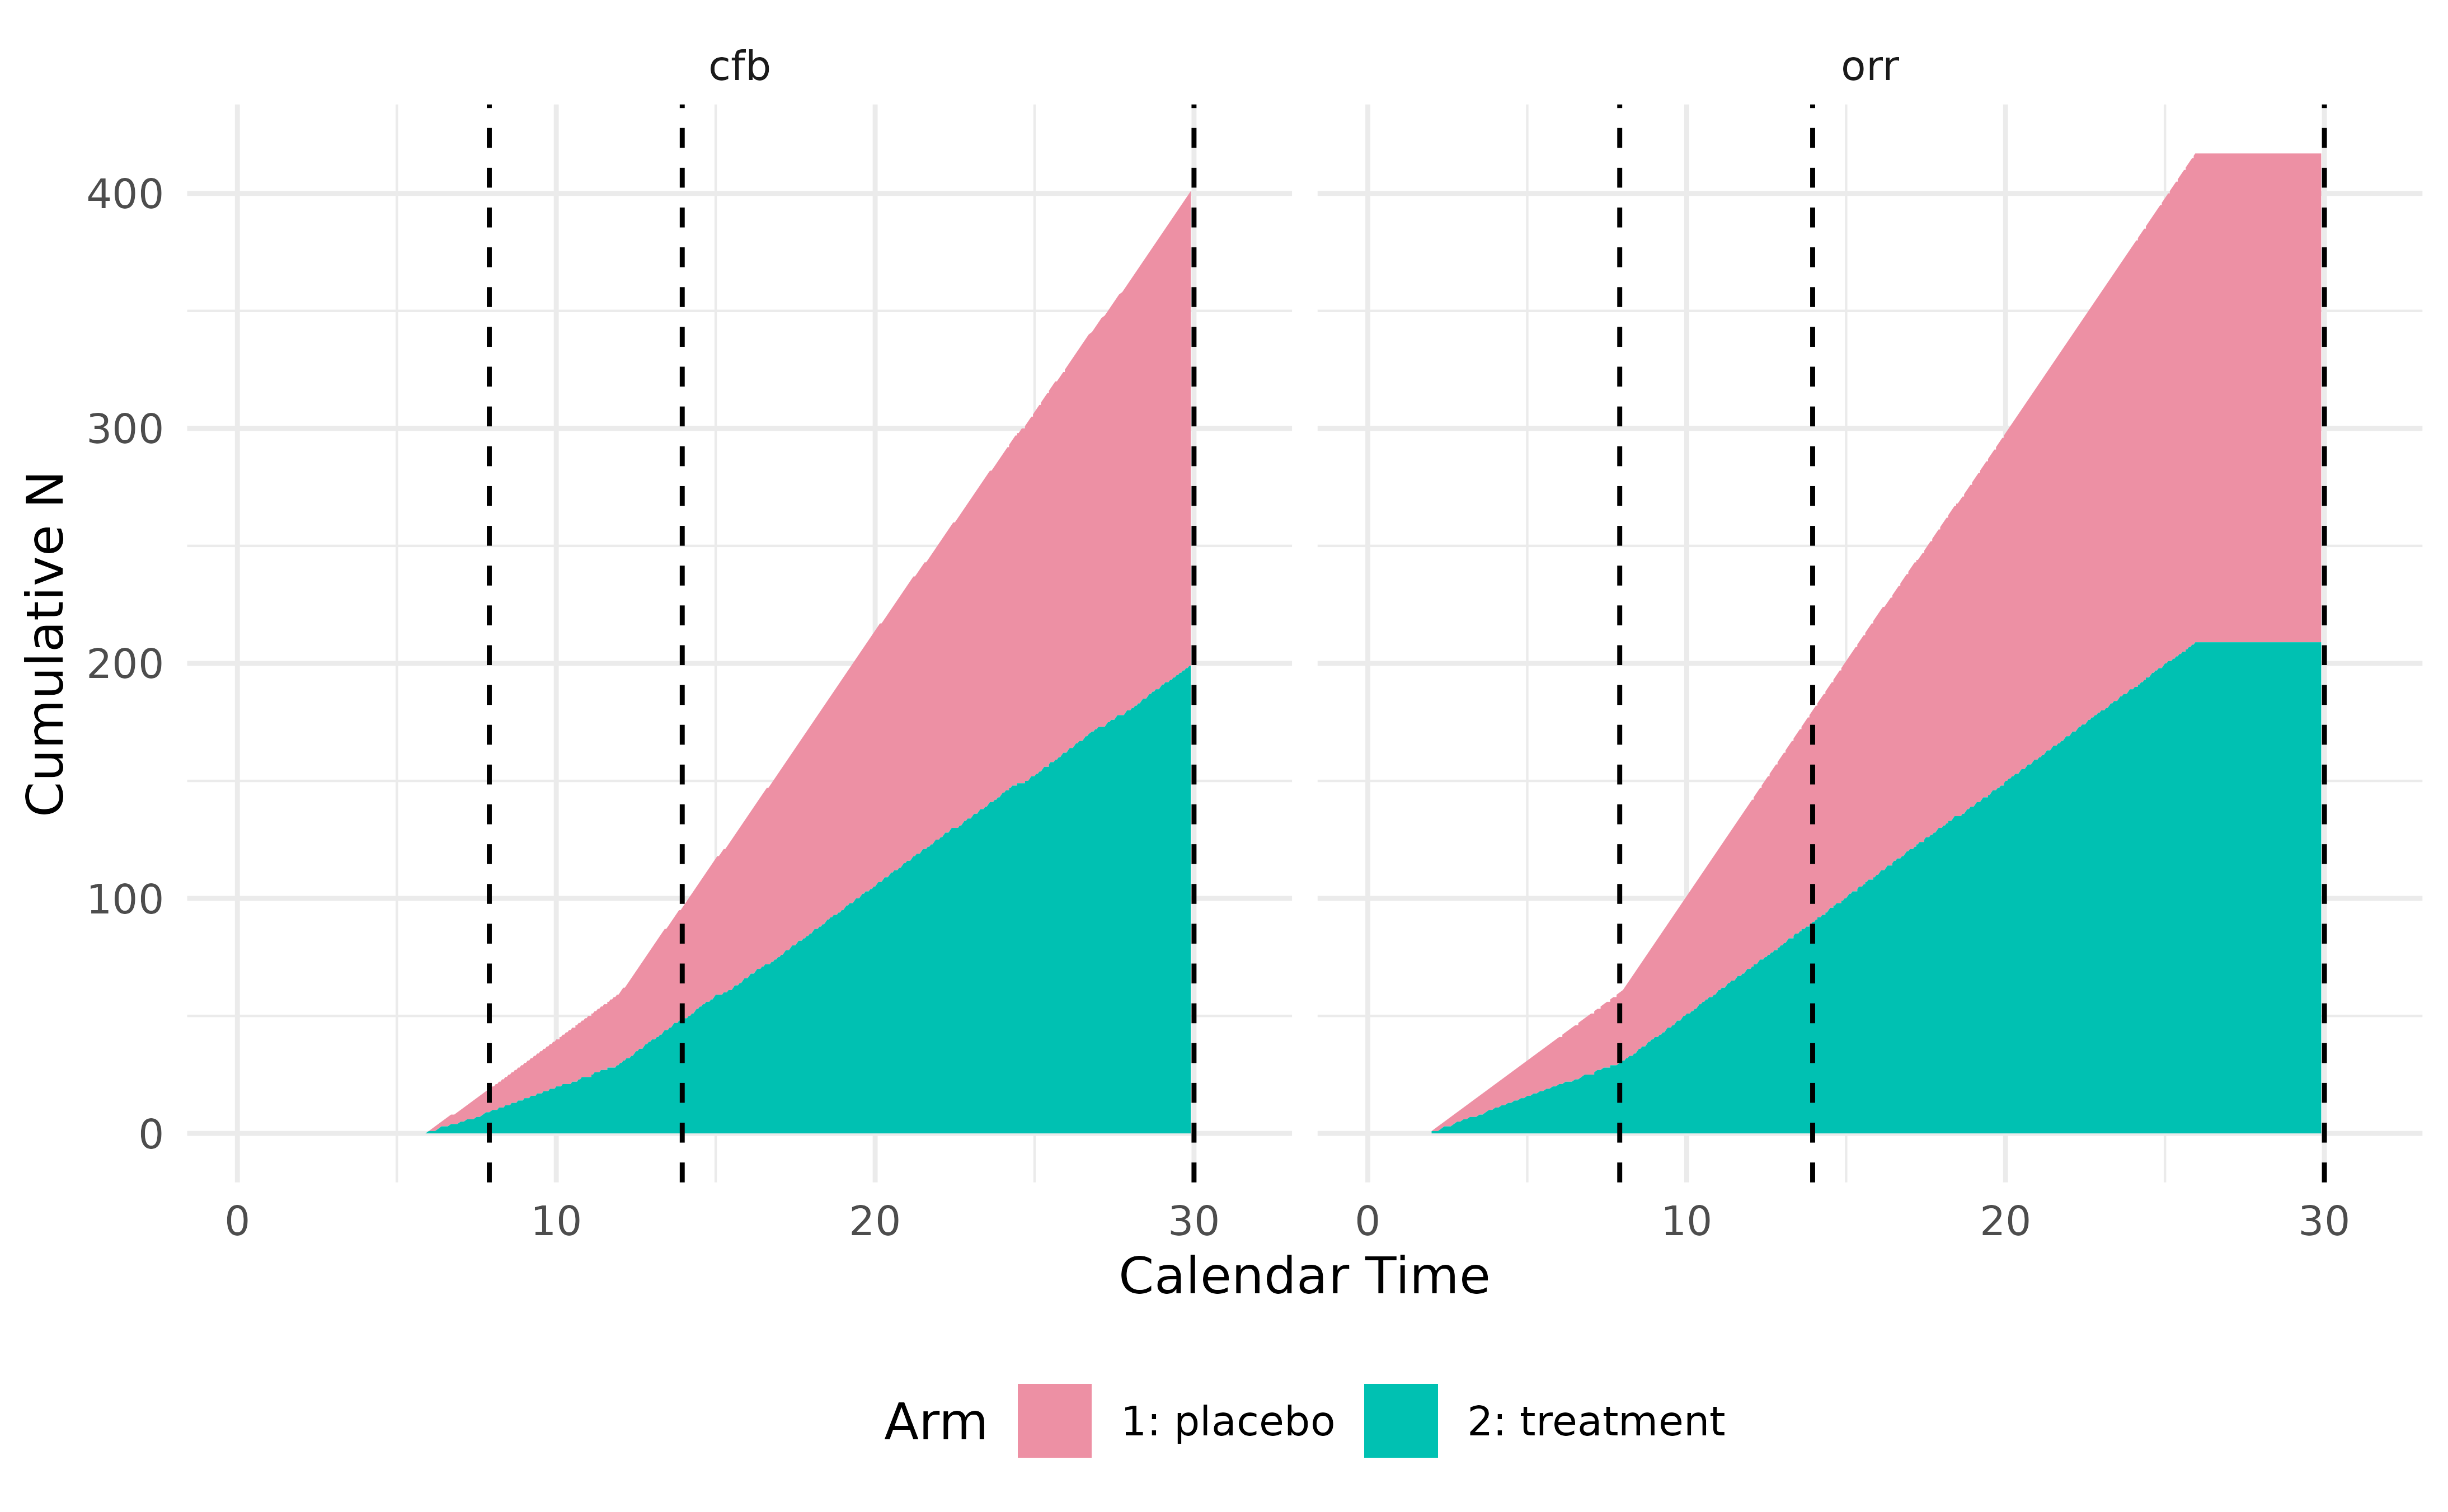
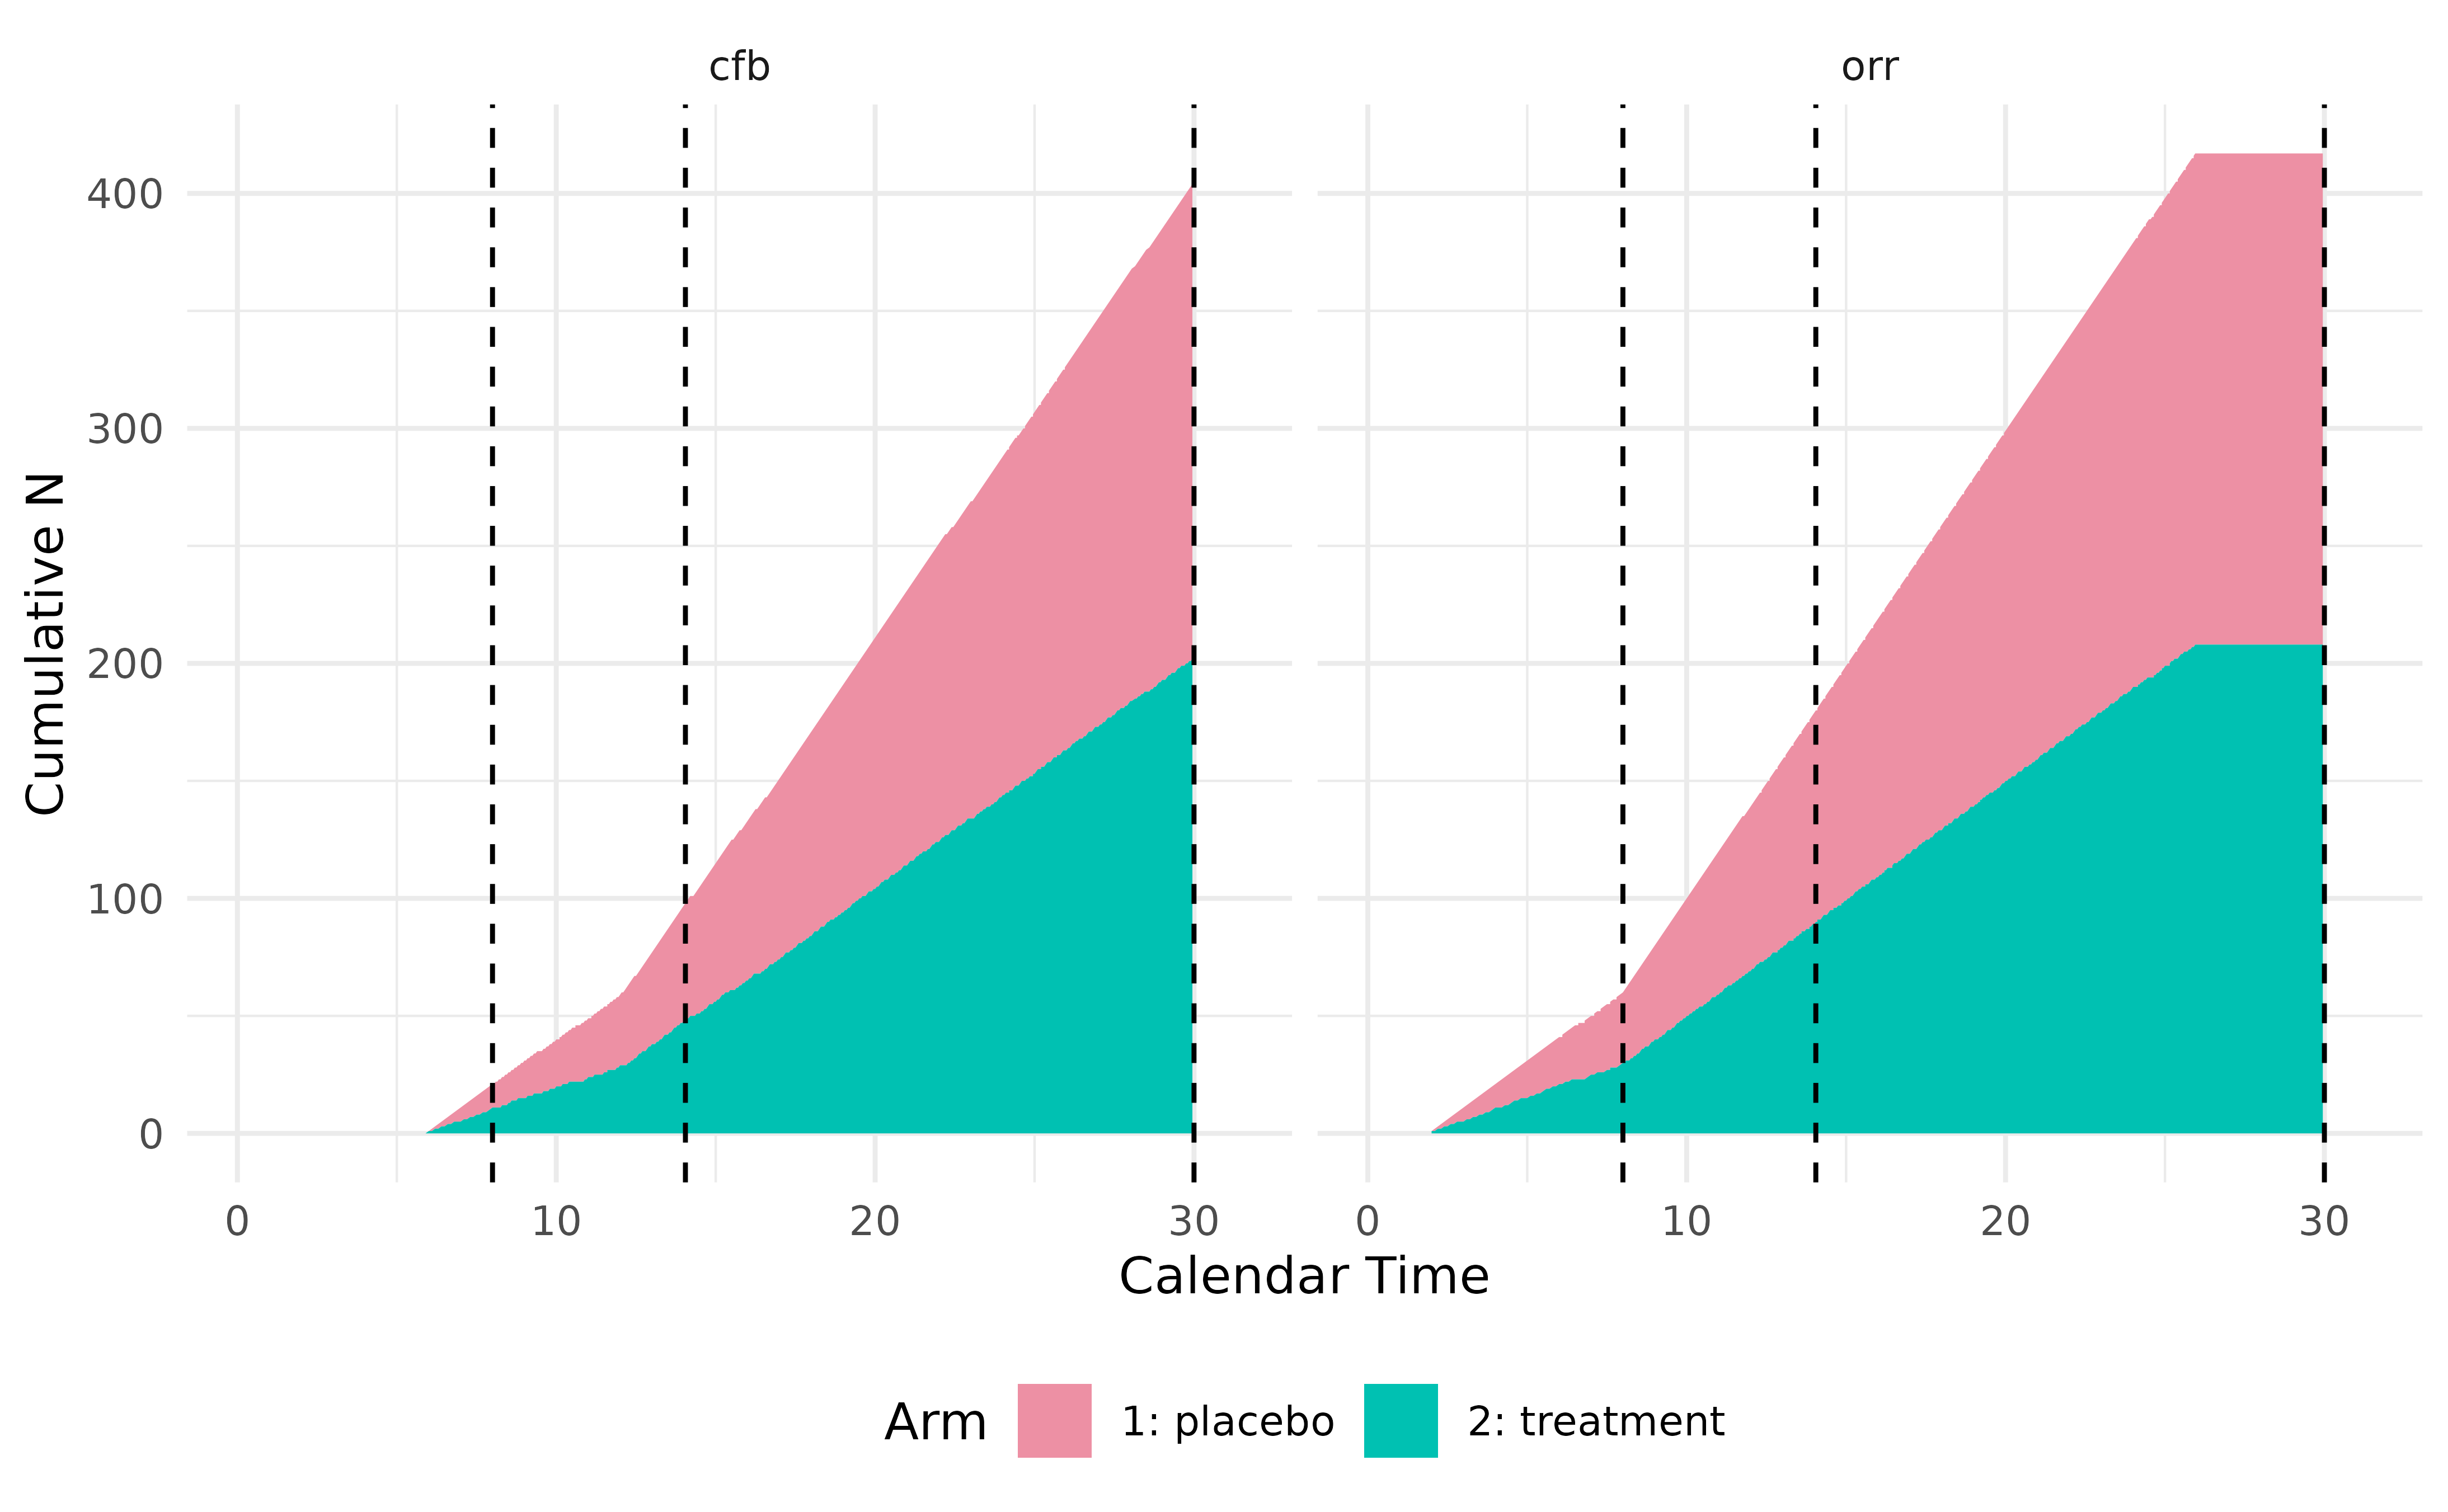
Deploying to gh-pages from @ zhangh12/TrialSimulator@8e10de6acb2aae3a9433bf3b0c79e435f6f9555b 🚀

Changed region(s): [[0.2487, 0.6837, 0.2798, 0.7148], [0.1865, 0.7148, 0.2176, 0.7458]]

diff --git a/articles/defineNonTimeToEventEndpoints.html b/articles/defineNonTimeToEventEndpoints.html
@@ -25,7 +25,7 @@
 
     <a class="navbar-brand me-2" href="../index.html">TrialSimulator</a>
 
-    <small class="nav-text text-muted me-auto" data-bs-toggle="tooltip" data-bs-placement="bottom" title="">1.19.1</small>
+    <small class="nav-text text-muted me-auto" data-bs-toggle="tooltip" data-bs-placement="bottom" title="">1.20.0</small>
 
 
     <button class="navbar-toggler" type="button" data-bs-toggle="collapse" data-bs-target="#navbar" aria-controls="navbar" aria-expanded="false" aria-label="Toggle navigation">
@@ -158,6 +158,32 @@ available after 2 months, assuming a binomial distribution
 <span><span class="co">## define the treatment arm</span></span>
 <span><span class="va">trt</span> <span class="op">&lt;-</span> <span class="fu"><a href="../reference/arm.html">arm</a></span><span class="op">(</span>name <span class="op">=</span> <span class="st">'treatment'</span><span class="op">)</span></span>
 <span><span class="va">trt</span><span class="op">$</span><span class="fu">add_endpoints</span><span class="op">(</span><span class="va">tumor_cfb_trt</span>, <span class="va">orr_trt</span><span class="op">)</span></span></code></pre></div>
+<div class="section level3">
+<h3 id="baseline-endpoints">Baseline endpoints<a class="anchor" aria-label="anchor" href="#baseline-endpoints"></a>
+</h3>
+<p>Some variables are observed at randomization rather than after a
+delay, for example a baseline covariate, biomarker, or subgroup
+indicator. Such a variable is a non-TTE endpoint with a readout of
+<code>0</code>. Instead of writing
+<code>type = 'non-tte', readout = c(biomarker = 0)</code>, you can set
+<code>type = 'baseline'</code>, in which case the readout is
+<code>0</code> automatically and must be omitted from
+<code>readout</code>:</p>
+<div class="sourceCode" id="cb2"><pre class="downlit sourceCode r">
+<code class="sourceCode R"><span><span class="co">## a baseline biomarker available at randomization</span></span>
+<span><span class="va">biomarker</span> <span class="op">&lt;-</span> <span class="fu"><a href="../reference/endpoint.html">endpoint</a></span><span class="op">(</span>name <span class="op">=</span> <span class="st">'biomarker'</span>, type <span class="op">=</span> <span class="st">'baseline'</span>,</span>
+<span>                      generator <span class="op">=</span> <span class="va">rbinom</span>, size <span class="op">=</span> <span class="fl">1</span>, prob <span class="op">=</span> <span class="fl">.3</span><span class="op">)</span></span></code></pre></div>
+<p><code>type = 'baseline'</code> is a convenience alias for a
+readout-<code>0</code> non-TTE endpoint; the two definitions below are
+equivalent. Specifying a <code>readout</code> for a
+<code>'baseline'</code> endpoint (even <code>0</code>) raises an
+error.</p>
+<div class="sourceCode" id="cb3"><pre class="downlit sourceCode r">
+<code class="sourceCode R"><span><span class="co">## these are equivalent</span></span>
+<span><span class="fu"><a href="../reference/endpoint.html">endpoint</a></span><span class="op">(</span>name <span class="op">=</span> <span class="st">'biomarker'</span>, type <span class="op">=</span> <span class="st">'baseline'</span>,</span>
+<span>         generator <span class="op">=</span> <span class="va">rbinom</span>, size <span class="op">=</span> <span class="fl">1</span>, prob <span class="op">=</span> <span class="fl">.3</span><span class="op">)</span></span>
+<span><span class="fu"><a href="../reference/endpoint.html">endpoint</a></span><span class="op">(</span>name <span class="op">=</span> <span class="st">'biomarker'</span>, type <span class="op">=</span> <span class="st">'non-tte'</span>, readout <span class="op">=</span> <span class="fu"><a href="https://rdrr.io/r/base/c.html" class="external-link">c</a></span><span class="op">(</span>biomarker <span class="op">=</span> <span class="fl">0</span><span class="op">)</span>,</span>
+<span>         generator <span class="op">=</span> <span class="va">rbinom</span>, size <span class="op">=</span> <span class="fl">1</span>, prob <span class="op">=</span> <span class="fl">.3</span><span class="op">)</span></span></code></pre></div>
 <p>With the treatment arms defined, we can proceed to create a trial.
 Patients are recruited at a piecewise constant rate, with an accrual
 pattern as follows:</p>
@@ -180,7 +206,7 @@ function:</p>
 0.30 &amp; = &amp; 1 - e^{-(18/\lambda)^k}
 \end{split}
 </annotation></semantics></math></p>
-<div class="sourceCode" id="cb2"><pre class="downlit sourceCode r">
+<div class="sourceCode" id="cb4"><pre class="downlit sourceCode r">
 <code class="sourceCode R"><span><span class="va">dropout_pars</span> <span class="op">&lt;-</span> <span class="fu"><a href="../reference/weibullDropout.html">weibullDropout</a></span><span class="op">(</span><span class="fu"><a href="https://rdrr.io/r/base/c.html" class="external-link">c</a></span><span class="op">(</span><span class="fl">12</span>, <span class="fl">18</span><span class="op">)</span>, <span class="fu"><a href="https://rdrr.io/r/base/c.html" class="external-link">c</a></span><span class="op">(</span><span class="fl">.15</span>, <span class="fl">.30</span><span class="op">)</span><span class="op">)</span></span>
 <span><span class="va">dropout_pars</span></span>
 <span><span class="co">#&gt;     shape     scale </span></span>
@@ -190,7 +216,7 @@ function:</p>
 30.636 and shape parameter
 <math display="inline" xmlns="http://www.w3.org/1998/Math/MathML"><semantics><mrow><mi>k</mi><mo>=</mo></mrow><annotation encoding="application/x-tex">k=</annotation></semantics></math>
 1.939, we specify the trial setup:</p>
-<div class="sourceCode" id="cb3"><pre class="downlit sourceCode r">
+<div class="sourceCode" id="cb5"><pre class="downlit sourceCode r">
 <code class="sourceCode R"><span><span class="va">accrual_rate</span> <span class="op">&lt;-</span> <span class="fu"><a href="https://rdrr.io/r/base/data.frame.html" class="external-link">data.frame</a></span><span class="op">(</span>end_time <span class="op">=</span> <span class="fu"><a href="https://rdrr.io/r/base/c.html" class="external-link">c</a></span><span class="op">(</span><span class="fl">6</span>, <span class="cn">Inf</span><span class="op">)</span>, </span>
 <span>                           piecewise_rate <span class="op">=</span> <span class="fu"><a href="https://rdrr.io/r/base/c.html" class="external-link">c</a></span><span class="op">(</span><span class="fl">10</span>, <span class="fl">20</span><span class="op">)</span><span class="op">)</span></span>
 <span></span>
@@ -200,7 +226,7 @@ function:</p>
 <span>  enroller <span class="op">=</span> <span class="va">StaggeredRecruiter</span>, accrual_rate <span class="op">=</span> <span class="va">accrual_rate</span>, </span>
 <span>  dropout <span class="op">=</span> <span class="va">rweibull</span>, scale <span class="op">=</span> <span class="fl">30.636</span>, shape <span class="op">=</span> <span class="fl">1.939</span></span>
 <span><span class="op">)</span></span>
-<span><span class="co">#&gt; Seed is not specified. TrialSimulator sets it to 1012203595</span></span>
+<span><span class="co">#&gt; Seed is not specified. TrialSimulator sets it to 1680176743</span></span>
 <span></span>
 <span><span class="co">## add arms to the trial</span></span>
 <span><span class="va">trial</span><span class="op">$</span><span class="fu">add_arms</span><span class="op">(</span>sample_ratio <span class="op">=</span> <span class="fu"><a href="https://rdrr.io/r/base/c.html" class="external-link">c</a></span><span class="op">(</span><span class="fl">1</span>, <span class="fl">1</span><span class="op">)</span>, <span class="va">trt</span>, <span class="va">pbo</span><span class="op">)</span></span>
@@ -216,7 +242,7 @@ function:</p>
 <span><span class="co">#&gt;  ⚕⚕ Number of Patients:  420  </span></span>
 <span><span class="co">#&gt;  ⚕⚕   Planned Duration:  30  </span></span>
 <span><span class="co">#&gt;  ⚕⚕            Regimen:  not set  </span></span>
-<span><span class="co">#&gt;  ⚕⚕        Random Seed:  1012203595</span></span></code></pre></div>
+<span><span class="co">#&gt;  ⚕⚕        Random Seed:  1680176743</span></span></code></pre></div>
 <p>Here <code>accrual_rate</code> is an argument of
 <code><a href="../reference/StaggeredRecruiter.html">TrialSimulator::StaggeredRecruiter</a></code> controlling how patients
 are recruited into the trial. Similarly, <code>scale</code> and
@@ -241,7 +267,7 @@ conditions is met:
 </li>
 <li>Final Analysis: Occurs when the trial reaches 30 months.</li>
 </ol>
-<div class="sourceCode" id="cb4"><pre class="downlit sourceCode r">
+<div class="sourceCode" id="cb6"><pre class="downlit sourceCode r">
 <code class="sourceCode R"><span><span class="va">interim</span> <span class="op">&lt;-</span> <span class="fu"><a href="../reference/milestone.html">milestone</a></span><span class="op">(</span>name <span class="op">=</span> <span class="st">'interim'</span>, </span>
 <span>                     when <span class="op">=</span> <span class="fu"><a href="../reference/eventNumber.html">eventNumber</a></span><span class="op">(</span>endpoint <span class="op">=</span> <span class="st">'orr'</span>, n <span class="op">=</span> <span class="fl">60</span><span class="op">)</span>, </span>
 <span>                     action <span class="op">=</span> <span class="va">doNothing</span><span class="op">)</span></span>
@@ -265,7 +291,7 @@ ratio per arm, or carry out statistical analysis based on locked data.
 These advanced setups are covered in other vignettes.</p>
 <p>Next, we register the milestones with a listener and create a
 controller to monitor and execute the trial.</p>
-<div class="sourceCode" id="cb5"><pre class="downlit sourceCode r">
+<div class="sourceCode" id="cb7"><pre class="downlit sourceCode r">
 <code class="sourceCode R"><span><span class="co">## register milestones to the listener</span></span>
 <span><span class="va">listener</span> <span class="op">&lt;-</span> <span class="fu"><a href="../reference/listener.html">listener</a></span><span class="op">(</span><span class="op">)</span></span>
 <span><span class="va">listener</span><span class="op">$</span><span class="fu">add_milestones</span><span class="op">(</span><span class="va">interim</span>, <span class="va">random</span>, <span class="va">final</span><span class="op">)</span></span>
@@ -277,43 +303,43 @@ controller to monitor and execute the trial.</p>
 <span><span class="va">controller</span> <span class="op">&lt;-</span> <span class="fu"><a href="../reference/controller.html">controller</a></span><span class="op">(</span><span class="va">trial</span>, <span class="va">listener</span><span class="op">)</span></span>
 <span><span class="va">controller</span><span class="op">$</span><span class="fu">run</span><span class="op">(</span><span class="op">)</span></span>
 <span><span class="co">#&gt; Condition of milestone &lt;interim&gt; is being checked.</span></span>
-<span><span class="co">#&gt; Data is locked at time = 7.9 for milestone &lt;interim&gt;.</span></span>
+<span><span class="co">#&gt; Data is locked at time = 8 for milestone &lt;interim&gt;.</span></span>
 <span><span class="co">#&gt; Locked data can be accessed in Trial$get_locked_data('interim'). </span></span>
 <span><span class="co">#&gt; Number of events at lock time:</span></span>
 <span><span class="co">#&gt;   cfb orr patient         arms</span></span>
-<span><span class="co">#&gt; 1  19  60      99 c("place....</span></span>
+<span><span class="co">#&gt; 1  21  60     101 c("place....</span></span>
 <span><span class="co">#&gt; </span></span>
 <span><span class="co">#&gt; Condition of milestone &lt;random&gt; is being checked.</span></span>
-<span><span class="co">#&gt; Data is locked at time = 13.95 for milestone &lt;random&gt;.</span></span>
+<span><span class="co">#&gt; Data is locked at time = 14.05 for milestone &lt;random&gt;.</span></span>
 <span><span class="co">#&gt; Locked data can be accessed in Trial$get_locked_data('random'). </span></span>
 <span><span class="co">#&gt; Number of events at lock time:</span></span>
 <span><span class="co">#&gt;   cfb orr patient         arms</span></span>
-<span><span class="co">#&gt; 1  96 180     220 c("place....</span></span>
+<span><span class="co">#&gt; 1  98 180     222 c("place....</span></span>
 <span><span class="co">#&gt; </span></span>
 <span><span class="co">#&gt; Condition of milestone &lt;final&gt; is being checked.</span></span>
 <span><span class="co">#&gt; Data is locked at time = 30 for milestone &lt;final&gt;.</span></span>
 <span><span class="co">#&gt; Locked data can be accessed in Trial$get_locked_data('final'). </span></span>
 <span><span class="co">#&gt; Number of events at lock time:</span></span>
 <span><span class="co">#&gt;   cfb orr patient         arms</span></span>
-<span><span class="co">#&gt; 1 401 417     420 c("place....</span></span>
+<span><span class="co">#&gt; 1 404 417     420 c("place....</span></span>
 <span><span class="co">#&gt; </span></span></code></pre></div>
 <p><img src="defineNonTimeToEventEndpoints_files/figure-html/ihhf-1.png" class="r-plt" alt="" width="100%"></p>
 <p>We can inspect the dataset locked at different milestone by calling
 member function <code>get_locked_data</code> with milestone names.
 Ideally, this should be done within custom action function, where
 decision is made based on data locked at the time of a milestone.</p>
-<div class="sourceCode" id="cb6"><pre class="downlit sourceCode r">
+<div class="sourceCode" id="cb8"><pre class="downlit sourceCode r">
 <code class="sourceCode R"><span><span class="va">interim_data</span> <span class="op">&lt;-</span> <span class="va">trial</span><span class="op">$</span><span class="fu">get_locked_data</span><span class="op">(</span>milestone_name <span class="op">=</span> <span class="st">'interim'</span><span class="op">)</span></span>
 <span><span class="va">random_data</span> <span class="op">&lt;-</span> <span class="va">trial</span><span class="op">$</span><span class="fu">get_locked_data</span><span class="op">(</span>milestone_name <span class="op">=</span> <span class="st">'random'</span><span class="op">)</span></span>
 <span><span class="va">final_data</span> <span class="op">&lt;-</span> <span class="va">trial</span><span class="op">$</span><span class="fu">get_locked_data</span><span class="op">(</span>milestone_name <span class="op">=</span> <span class="st">'final'</span><span class="op">)</span></span>
 <span><span class="fu"><a href="https://rdrr.io/r/utils/head.html" class="external-link">head</a></span><span class="op">(</span><span class="va">interim_data</span><span class="op">)</span></span>
 <span><span class="co">#&gt;   patient_id       arm enroll_time dropout_time        cfb cfb_readout orr</span></span>
-<span><span class="co">#&gt; 1          1 treatment         0.0     29.78530 -0.2980363           6   1</span></span>
-<span><span class="co">#&gt; 2          2   placebo         0.1     15.04569  8.1479693           6   0</span></span>
-<span><span class="co">#&gt; 3          3   placebo         0.2     15.91130  0.3772291           6   0</span></span>
-<span><span class="co">#&gt; 4          4 treatment         0.3     20.39311 -2.7864167           6   0</span></span>
-<span><span class="co">#&gt; 5          5 treatment         0.4     16.47514 -0.9595334           6   0</span></span>
-<span><span class="co">#&gt; 6          6   placebo         0.5     19.78626 -0.5136511           6   0</span></span>
+<span><span class="co">#&gt; 1          1 treatment         0.0     19.59798 -2.7401110           6   0</span></span>
+<span><span class="co">#&gt; 2          2   placebo         0.1     16.88565 -0.8997023           6   0</span></span>
+<span><span class="co">#&gt; 3          3 treatment         0.2     31.24747 -4.3991928           6   0</span></span>
+<span><span class="co">#&gt; 4          4   placebo         0.3     30.03645  2.6023650           6   0</span></span>
+<span><span class="co">#&gt; 5          5 treatment         0.4     26.19217 -2.5724330           6   1</span></span>
+<span><span class="co">#&gt; 6          6   placebo         0.5     18.65077  4.2112886           6   0</span></span>
 <span><span class="co">#&gt;   orr_readout</span></span>
 <span><span class="co">#&gt; 1           2</span></span>
 <span><span class="co">#&gt; 2           2</span></span>
@@ -328,7 +354,7 @@ these values become available in <code>random_data</code> collected at a
 later time point. This demonstrates how <code>TrialSimulator</code>
 properly and automatically handles endpoint availability at different
 milestones</p>
-<div class="sourceCode" id="cb7"><pre class="downlit sourceCode r">
+<div class="sourceCode" id="cb9"><pre class="downlit sourceCode r">
 <code class="sourceCode R"><span><span class="va">not_ready_at_interim</span> <span class="op">&lt;-</span> </span>
 <span>  <span class="va">interim_data</span> <span class="op"><a href="https://magrittr.tidyverse.org/reference/pipe.html" class="external-link">%&gt;%</a></span> </span>
 <span>  <span class="fu">dplyr</span><span class="fu">::</span><span class="fu"><a href="https://dplyr.tidyverse.org/reference/filter.html" class="external-link">filter</a></span><span class="op">(</span><span class="fu"><a href="https://rdrr.io/r/base/NA.html" class="external-link">is.na</a></span><span class="op">(</span><span class="va">cfb</span><span class="op">)</span> <span class="op">&amp;</span> </span>
@@ -337,23 +363,23 @@ milestones</p>
 <span>  <span class="fu"><a href="https://rdrr.io/r/utils/head.html" class="external-link">head</a></span><span class="op">(</span><span class="op">)</span> <span class="op"><a href="https://magrittr.tidyverse.org/reference/pipe.html" class="external-link">%&gt;%</a></span> </span>
 <span>  <span class="fu"><a href="https://rdrr.io/r/base/print.html" class="external-link">print</a></span><span class="op">(</span><span class="op">)</span></span>
 <span><span class="co">#&gt;   patient_id       arm enroll_time dropout_time cfb cfb_readout orr orr_readout</span></span>
-<span><span class="co">#&gt; 1         61 treatment        6.00     53.16813  NA           6  NA           2</span></span>
-<span><span class="co">#&gt; 2         62   placebo        6.05     15.06647  NA           6  NA           2</span></span>
-<span><span class="co">#&gt; 3         63 treatment        6.10     24.75709  NA           6  NA           2</span></span>
-<span><span class="co">#&gt; 4         65 treatment        6.20     27.24852  NA           6  NA           2</span></span>
-<span><span class="co">#&gt; 5         66   placebo        6.25     24.53303  NA           6  NA           2</span></span>
-<span><span class="co">#&gt; 6         67   placebo        6.30     19.54081  NA           6  NA           2</span></span>
+<span><span class="co">#&gt; 1         62   placebo        6.05     27.72383  NA           6  NA           2</span></span>
+<span><span class="co">#&gt; 2         64   placebo        6.15     37.47509  NA           6  NA           2</span></span>
+<span><span class="co">#&gt; 3         65   placebo        6.20     12.92272  NA           6  NA           2</span></span>
+<span><span class="co">#&gt; 4         66 treatment        6.25     46.40955  NA           6  NA           2</span></span>
+<span><span class="co">#&gt; 5         67   placebo        6.30     16.58936  NA           6  NA           2</span></span>
+<span><span class="co">#&gt; 6         68 treatment        6.35     16.07110  NA           6  NA           2</span></span>
 <span></span>
 <span><span class="va">random_data</span> <span class="op"><a href="https://magrittr.tidyverse.org/reference/pipe.html" class="external-link">%&gt;%</a></span> </span>
 <span>  <span class="fu">dplyr</span><span class="fu">::</span><span class="fu"><a href="https://dplyr.tidyverse.org/reference/filter.html" class="external-link">filter</a></span><span class="op">(</span><span class="va">patient_id</span> <span class="op"><a href="https://rdrr.io/r/base/match.html" class="external-link">%in%</a></span> <span class="va">not_ready_at_interim</span><span class="op">$</span><span class="va">patient_id</span><span class="op">)</span> <span class="op"><a href="https://magrittr.tidyverse.org/reference/pipe.html" class="external-link">%&gt;%</a></span> </span>
 <span>  <span class="fu"><a href="https://rdrr.io/r/base/print.html" class="external-link">print</a></span><span class="op">(</span><span class="op">)</span></span>
-<span><span class="co">#&gt;   patient_id       arm enroll_time dropout_time       cfb cfb_readout orr</span></span>
-<span><span class="co">#&gt; 1         61 treatment        6.00     53.16813 -4.923353           6   1</span></span>
-<span><span class="co">#&gt; 2         62   placebo        6.05     15.06647  1.153043           6   0</span></span>
-<span><span class="co">#&gt; 3         63 treatment        6.10     24.75709 -4.559905           6   0</span></span>
-<span><span class="co">#&gt; 4         65 treatment        6.20     27.24852 -4.448258           6   0</span></span>
-<span><span class="co">#&gt; 5         66   placebo        6.25     24.53303  4.342807           6   0</span></span>
-<span><span class="co">#&gt; 6         67   placebo        6.30     19.54081  1.623136           6   0</span></span>
+<span><span class="co">#&gt;   patient_id       arm enroll_time dropout_time        cfb cfb_readout orr</span></span>
+<span><span class="co">#&gt; 1         62   placebo        6.05     27.72383 -2.7806950           6   0</span></span>
+<span><span class="co">#&gt; 2         64   placebo        6.15     37.47509 -0.4524829           6   0</span></span>
+<span><span class="co">#&gt; 3         65   placebo        6.20     12.92272  0.9304418           6   0</span></span>
+<span><span class="co">#&gt; 4         66 treatment        6.25     46.40955 -5.2830610           6   1</span></span>
+<span><span class="co">#&gt; 5         67   placebo        6.30     16.58936 -4.3065756           6   0</span></span>
+<span><span class="co">#&gt; 6         68 treatment        6.35     16.07110 -3.7165411           6   1</span></span>
 <span><span class="co">#&gt;   orr_readout</span></span>
 <span><span class="co">#&gt; 1           2</span></span>
 <span><span class="co">#&gt; 2           2</span></span>
@@ -371,7 +397,9 @@ efficient endpoint definition, adaptive trial execution, and data
 monitoring—allowing users to design and simulate clinical trials
 tailored to specific research needs.</p>
 </div>
-  </main>
+</div>
+  </main><aside class="col-md-3"><nav id="toc" aria-label="Table of contents"><h2>On this page</h2>
+    </nav></aside>
 </div>
 
 

diff --git a/reference/endpoint.html b/reference/endpoint.html
@@ -15,7 +15,7 @@ readout of non-tte endpoints, dropout time, and trial duration are consistent.">
 
     <a class="navbar-brand me-2" href="../index.html">TrialSimulator</a>
 
-    <small class="nav-text text-muted me-auto" data-bs-toggle="tooltip" data-bs-placement="bottom" title="">1.19.1</small>
+    <small class="nav-text text-muted me-auto" data-bs-toggle="tooltip" data-bs-placement="bottom" title="">1.20.0</small>
 
 
     <button class="navbar-toggler" type="button" data-bs-toggle="collapse" data-bs-target="#navbar" aria-controls="navbar" aria-expanded="false" aria-label="Toggle navigation">
@@ -86,7 +86,11 @@ supports <code>"tte"</code> for time-to-event endpoints, and <code>"non-tte"</co
 all other types of endpoints (e.g., continuous, binary, categorical,
 or repeated measurement. <code>TrialSimulator</code> will do some verification if
 an endpoint is of type <code>"tte"</code>. However, no special
-manipulation is done for non-tte endpoints.</p></dd>
+manipulation is done for non-tte endpoints.
+<code>"baseline"</code> can be used for a non-tte endpoint that is observed at
+randomization (e.g., a baseline covariate, biomarker, or subgroup
+indicator). Its readout is <code>0</code> by definition and must <strong>not</strong> be
+specified in <code>readout</code>; doing so triggers an error.</p></dd>
 
 
 <dt id="arg-readout">readout<a class="anchor" aria-label="anchor" href="#arg-readout"></a></dt>
@@ -100,7 +104,9 @@ unit time, its <code>readout</code> can be set as
 <code>c(baseline = 0, ep1 = 2, ep2 = 4)</code>.  Error message will be prompted
 if <code>readout</code> is not named or is not specified for all non-tte endpoint,
 or it is specified for any tte endpoints. If all
-endpoints are tte, <code>readout</code> should be its default value <code>NULL</code>.</p></dd>
+endpoints are tte, <code>readout</code> should be its default value <code>NULL</code>.
+Endpoints of type <code>"baseline"</code> must be omitted from <code>readout</code>, as
+their readout is <code>0</code>.</p></dd>
 
 
 <dt id="arg-generator">generator<a class="anchor" aria-label="anchor" href="#arg-generator"></a></dt>

diff --git a/news/index.html b/news/index.html
@@ -7,7 +7,7 @@
 
     <a class="navbar-brand me-2" href="../index.html">TrialSimulator</a>
 
-    <small class="nav-text text-muted me-auto" data-bs-toggle="tooltip" data-bs-placement="bottom" title="">1.19.1</small>
+    <small class="nav-text text-muted me-auto" data-bs-toggle="tooltip" data-bs-placement="bottom" title="">1.20.0</small>
 
 
     <button class="navbar-toggler" type="button" data-bs-toggle="collapse" data-bs-target="#navbar" aria-controls="navbar" aria-expanded="false" aria-label="Toggle navigation">
@@ -50,6 +50,14 @@
       <small>Source: <a href="https://github.com/zhangh12/TrialSimulator/blob/main/NEWS.md" class="external-link"><code>NEWS.md</code></a></small>
     </div>
 
+    <div class="section level2">
+<h2 class="pkg-version" data-toc-text="1.20.0" id="trialsimulator-1200">TrialSimulator 1.20.0<a class="anchor" aria-label="anchor" href="#trialsimulator-1200"></a></h2>
+<div class="section level3">
+<h3 id="new-feature-1-20-0">New Feature<a class="anchor" aria-label="anchor" href="#new-feature-1-20-0"></a></h3>
+<ul><li>
+<code><a href="../reference/endpoint.html">endpoint()</a></code> now accepts <code>type = "baseline"</code> for a non-tte endpoint observed at randomization (e.g., a baseline covariate, biomarker, or subgroup indicator). Its readout is <code>0</code> by definition and must be omitted from <code>readout</code>. For forward compatibility, a non-tte endpoint observed at randomization can still be defined the existing way with <code>readout = 0</code>. <code>Endpoints$new()</code> continues to recognize only <code>"tte"</code> and <code>"non-tte"</code>; the conversion happens in <code><a href="../reference/endpoint.html">endpoint()</a></code>.</li>
+</ul></div>
+</div>
     <div class="section level2">
 <h2 class="pkg-version" data-toc-text="1.19.1" id="trialsimulator-1191">TrialSimulator 1.19.1<a class="anchor" aria-label="anchor" href="#trialsimulator-1191"></a></h2>
 <div class="section level3">

diff --git a/reference/Endpoints.html b/reference/Endpoints.html
@@ -25,7 +25,7 @@ $print()
 
     <a class="navbar-brand me-2" href="../index.html">TrialSimulator</a>
 
-    <small class="nav-text text-muted me-auto" data-bs-toggle="tooltip" data-bs-placement="bottom" title="">1.19.1</small>
+    <small class="nav-text text-muted me-auto" data-bs-toggle="tooltip" data-bs-placement="bottom" title="">1.20.0</small>
 
 
     <button class="navbar-toggler" type="button" data-bs-toggle="collapse" data-bs-target="#navbar" aria-controls="navbar" aria-expanded="false" aria-label="Toggle navigation">
@@ -115,7 +115,12 @@ except for the one below.</p>
 all other types of endpoints (e.g., continous, binary, categorical,
 or repeated measurement. <code>TrialSimulator</code> will do some verification if
 an endpoint is of type <code>"tte"</code>. However, no special
-manipulation is done for non-tte endpoints.</p></dd>
+manipulation is done for non-tte endpoints.
+Note: <code>Endpoints$new()</code> only recognizes <code>"tte"</code> and
+<code>"non-tte"</code>. The <code>"baseline"</code> type accepted by <code><a href="endpoint.html">endpoint()</a></code>
+is a non-tte endpoint observed at randomization; <code><a href="endpoint.html">endpoint()</a></code>
+converts it to <code>"non-tte"</code> with readout <code>0</code> before constructing
+the object, so it never reaches here.</p></dd>
 
 
 <dt><code>readout</code></dt>

diff --git a/authors.html b/authors.html
@@ -7,7 +7,7 @@
 
     <a class="navbar-brand me-2" href="index.html">TrialSimulator</a>
 
-    <small class="nav-text text-muted me-auto" data-bs-toggle="tooltip" data-bs-placement="bottom" title="">1.19.1</small>
+    <small class="nav-text text-muted me-auto" data-bs-toggle="tooltip" data-bs-placement="bottom" title="">1.20.0</small>
 
 
     <button class="navbar-toggler" type="button" data-bs-toggle="collapse" data-bs-target="#navbar" aria-controls="navbar" aria-expanded="false" aria-label="Toggle navigation">
@@ -64,13 +64,13 @@
 
       <p>Zhang H (2026).
 <em>TrialSimulator: Clinical Trial Simulator</em>.
-R package version 1.19.1, <a href="https://zhangh12.github.io/TrialSimulator/">https://zhangh12.github.io/TrialSimulator/</a>.
+R package version 1.20.0, <a href="https://zhangh12.github.io/TrialSimulator/">https://zhangh12.github.io/TrialSimulator/</a>.
 </p>
       <pre>@Manual{,
   title = {TrialSimulator: Clinical Trial Simulator},
   author = {Han Zhang},
   year = {2026},
-  note = {R package version 1.19.1},
+  note = {R package version 1.20.0},
   url = {https://zhangh12.github.io/TrialSimulator/},
 }</pre>
     </div>

diff --git a/404.html b/404.html
@@ -26,7 +26,7 @@
 
     <a class="navbar-brand me-2" href="https://zhangh12.github.io/TrialSimulator/index.html">TrialSimulator</a>
 
-    <small class="nav-text text-muted me-auto" data-bs-toggle="tooltip" data-bs-placement="bottom" title="">1.19.1</small>
+    <small class="nav-text text-muted me-auto" data-bs-toggle="tooltip" data-bs-placement="bottom" title="">1.20.0</small>
 
 
     <button class="navbar-toggler" type="button" data-bs-toggle="collapse" data-bs-target="#navbar" aria-controls="navbar" aria-expanded="false" aria-label="Toggle navigation">

diff --git a/LICENSE-text.html b/LICENSE-text.html
@@ -7,7 +7,7 @@
 
     <a class="navbar-brand me-2" href="index.html">TrialSimulator</a>
 
-    <small class="nav-text text-muted me-auto" data-bs-toggle="tooltip" data-bs-placement="bottom" title="">1.19.1</small>
+    <small class="nav-text text-muted me-auto" data-bs-toggle="tooltip" data-bs-placement="bottom" title="">1.20.0</small>
 
 
     <button class="navbar-toggler" type="button" data-bs-toggle="collapse" data-bs-target="#navbar" aria-controls="navbar" aria-expanded="false" aria-label="Toggle navigation">

diff --git a/LICENSE.html b/LICENSE.html
@@ -7,7 +7,7 @@
 
     <a class="navbar-brand me-2" href="index.html">TrialSimulator</a>
 
-    <small class="nav-text text-muted me-auto" data-bs-toggle="tooltip" data-bs-placement="bottom" title="">1.19.1</small>
+    <small class="nav-text text-muted me-auto" data-bs-toggle="tooltip" data-bs-placement="bottom" title="">1.20.0</small>
 
 
     <button class="navbar-toggler" type="button" data-bs-toggle="collapse" data-bs-target="#navbar" aria-controls="navbar" aria-expanded="false" aria-label="Toggle navigation">

diff --git a/articles/actionFunctions.html b/articles/actionFunctions.html
@@ -25,7 +25,7 @@
 
     <a class="navbar-brand me-2" href="../index.html">TrialSimulator</a>
 
-    <small class="nav-text text-muted me-auto" data-bs-toggle="tooltip" data-bs-placement="bottom" title="">1.19.1</small>
+    <small class="nav-text text-muted me-auto" data-bs-toggle="tooltip" data-bs-placement="bottom" title="">1.20.0</small>
 
 
     <button class="navbar-toggler" type="button" data-bs-toggle="collapse" data-bs-target="#navbar" aria-controls="navbar" aria-expanded="false" aria-label="Toggle navigation">

diff --git a/articles/adaptiveDesign.html b/articles/adaptiveDesign.html
@@ -25,7 +25,7 @@
 
     <a class="navbar-brand me-2" href="../index.html">TrialSimulator</a>
 
-    <small class="nav-text text-muted me-auto" data-bs-toggle="tooltip" data-bs-placement="bottom" title="">1.19.1</small>
+    <small class="nav-text text-muted me-auto" data-bs-toggle="tooltip" data-bs-placement="bottom" title="">1.20.0</small>
 
 
     <button class="navbar-toggler" type="button" data-bs-toggle="collapse" data-bs-target="#navbar" aria-controls="navbar" aria-expanded="false" aria-label="Toggle navigation">

diff --git a/articles/conditionSystem.html b/articles/conditionSystem.html
@@ -25,7 +25,7 @@
 
     <a class="navbar-brand me-2" href="../index.html">TrialSimulator</a>
 
-    <small class="nav-text text-muted me-auto" data-bs-toggle="tooltip" data-bs-placement="bottom" title="">1.19.1</small>
+    <small class="nav-text text-muted me-auto" data-bs-toggle="tooltip" data-bs-placement="bottom" title="">1.20.0</small>
 
 
     <button class="navbar-toggler" type="button" data-bs-toggle="collapse" data-bs-target="#navbar" aria-controls="navbar" aria-expanded="false" aria-label="Toggle navigation">

diff --git a/articles/crossoverAtMilestone.html b/articles/crossoverAtMilestone.html
@@ -25,7 +25,7 @@
 
     <a class="navbar-brand me-2" href="../index.html">TrialSimulator</a>
 
-    <small class="nav-text text-muted me-auto" data-bs-toggle="tooltip" data-bs-placement="bottom" title="">1.19.1</small>
+    <small class="nav-text text-muted me-auto" data-bs-toggle="tooltip" data-bs-placement="bottom" title="">1.20.0</small>
 
 
     <button class="navbar-toggler" type="button" data-bs-toggle="collapse" data-bs-target="#navbar" aria-controls="navbar" aria-expanded="false" aria-label="Toggle navigation">